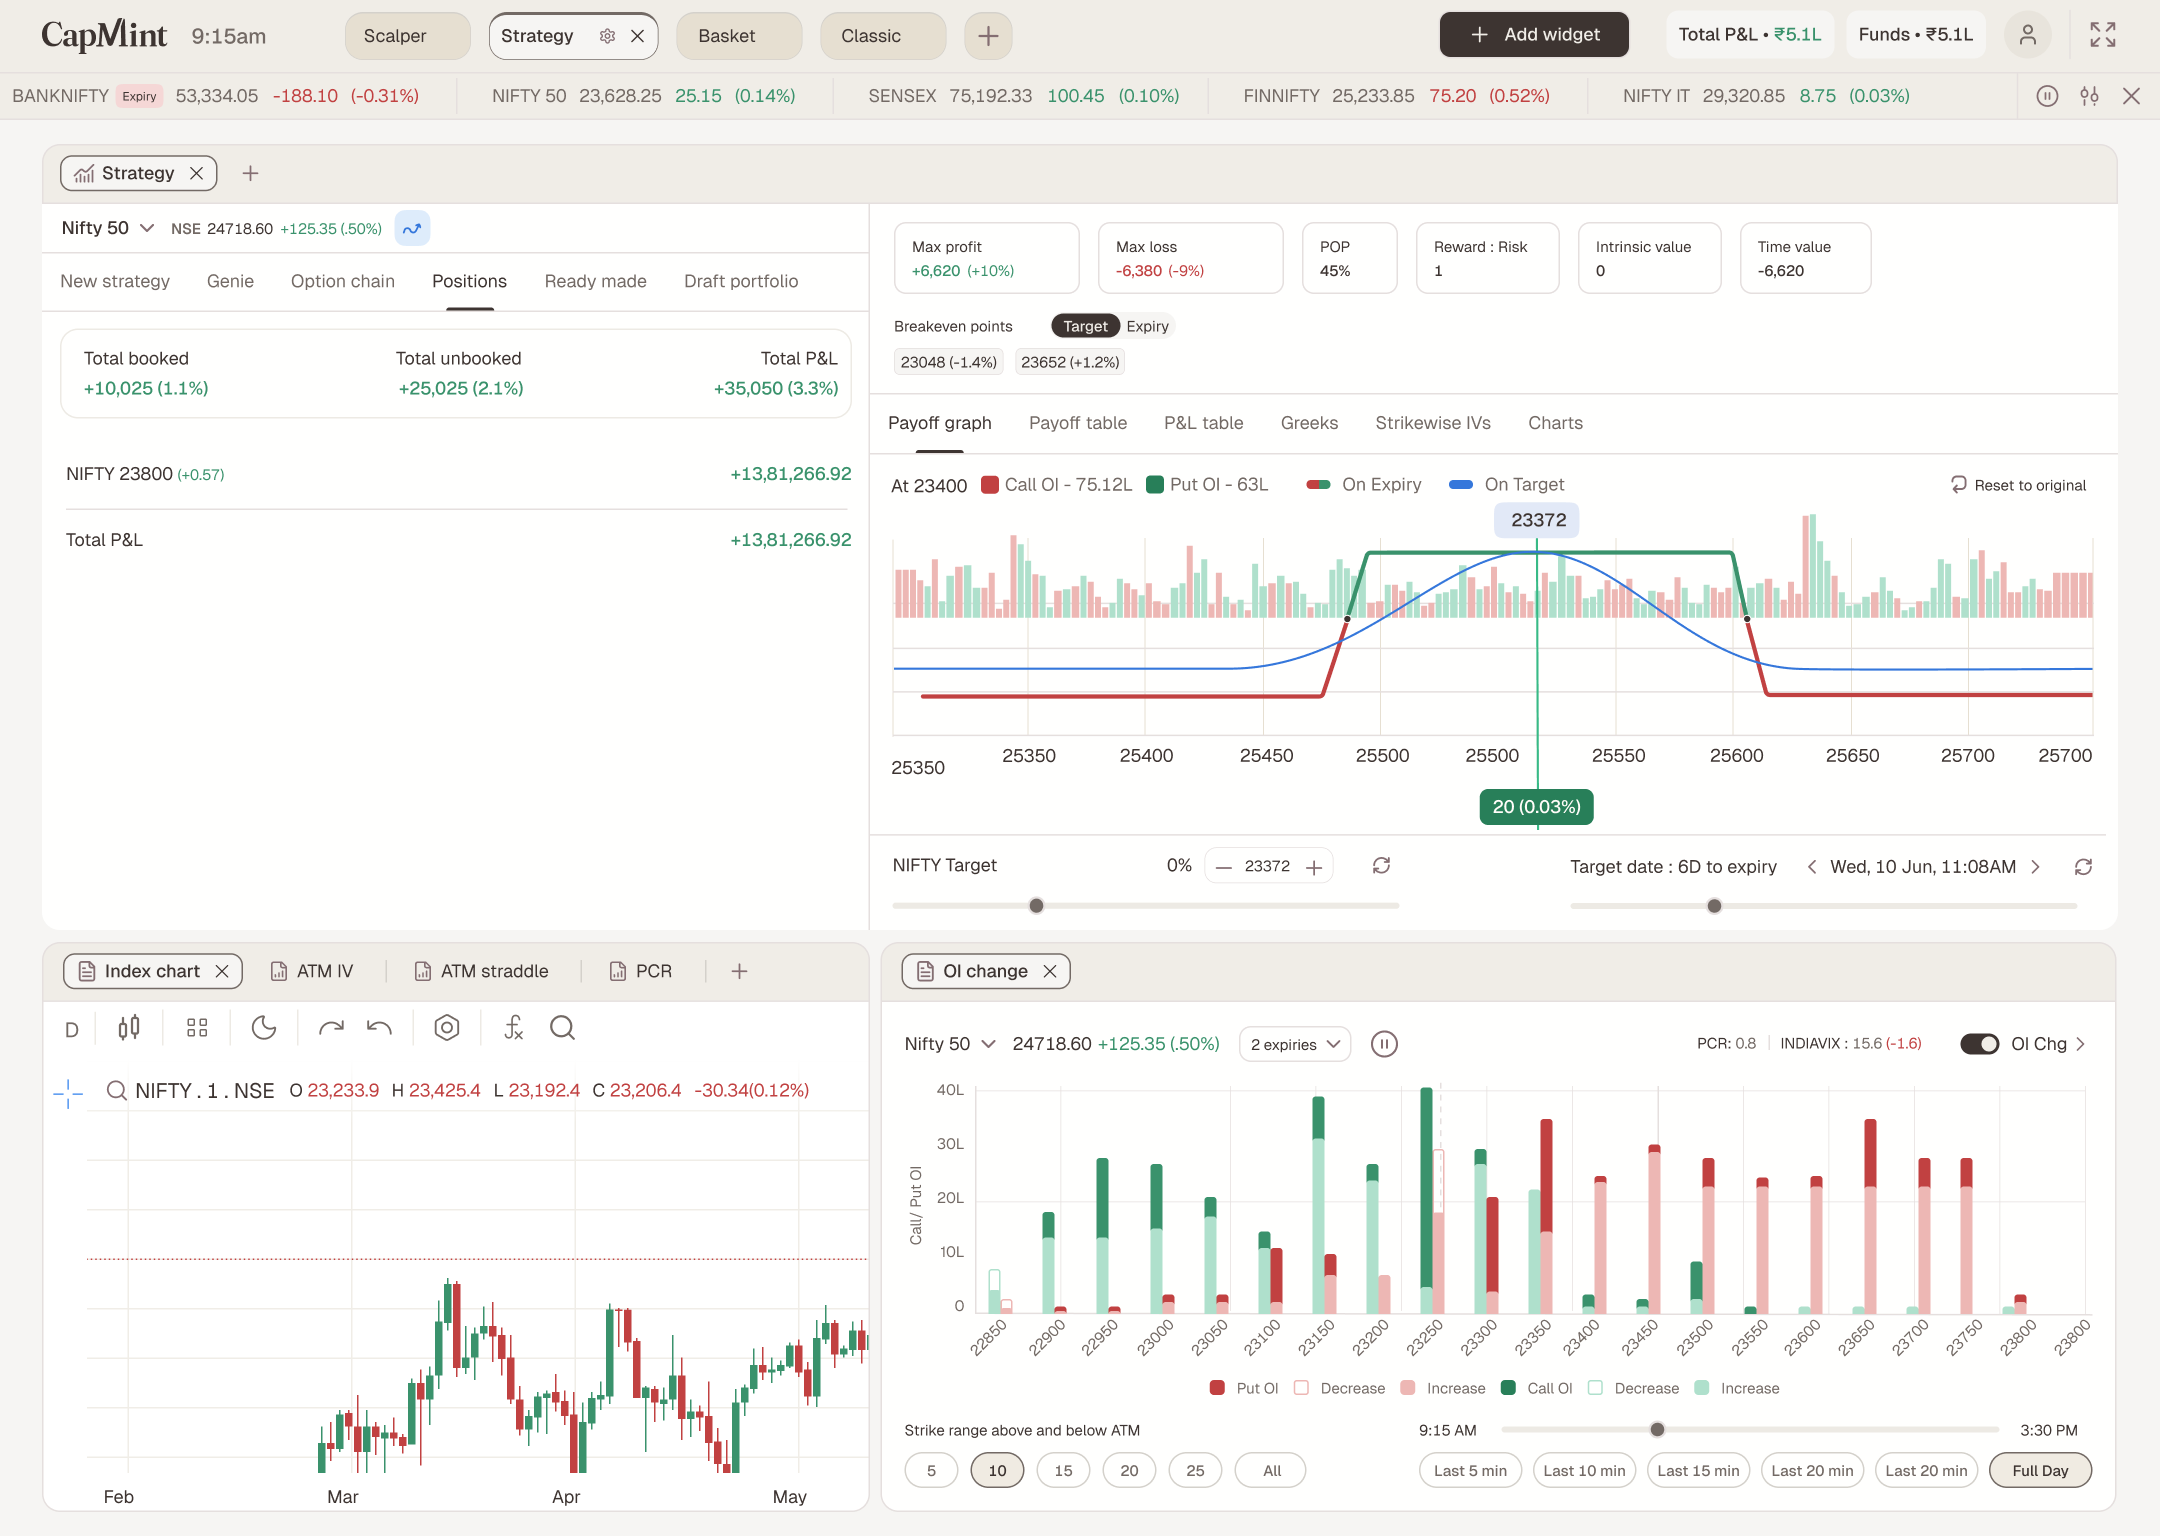
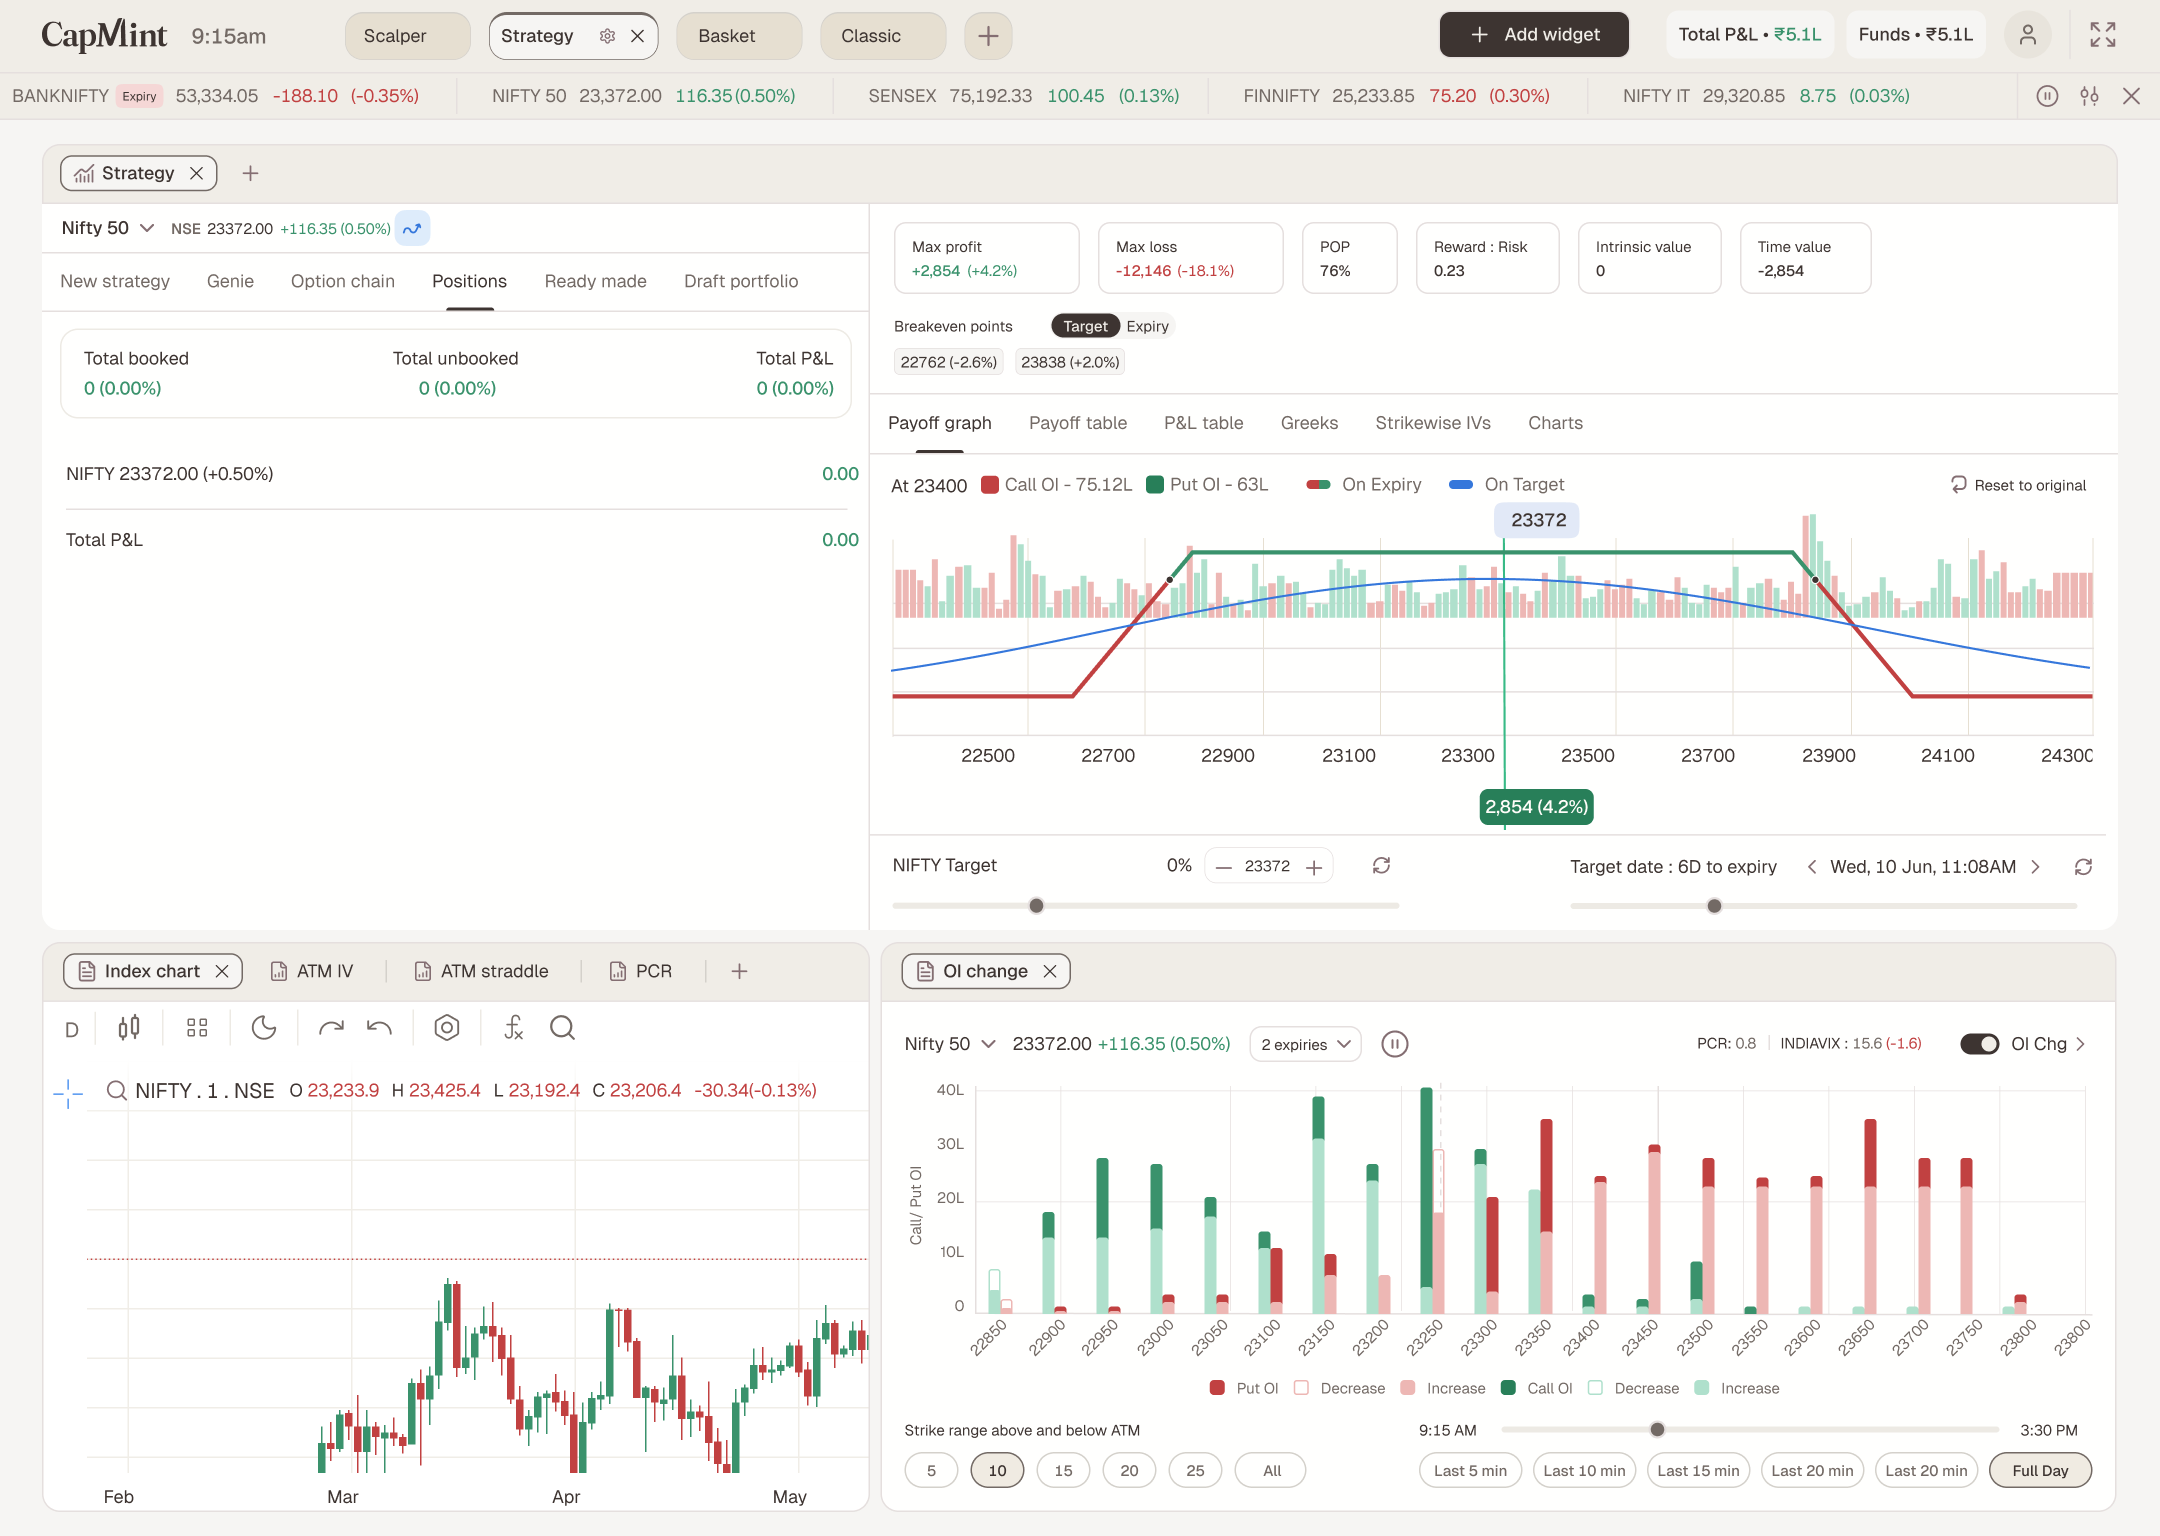
Strategy builder: screens re-exported with one consistent, mathematically correct set of numbers

diff --git a/projects/strategy-builder.html b/projects/strategy-builder.html
@@ -219,7 +219,7 @@
     <div class="wrap">
       <figure class="sb-shot">
         <div class="sb-shot__inner" style="--sb-ar: 696 / 495.031">
-          <img src="../assets/img/strategy-builder/screen-01.png" alt="The Strategy Builder workbench: build panel on the left, payoff and analytics pane on the right." width="3484" height="2478" loading="lazy" decoding="async">
+          <img src="../assets/img/strategy-builder/screen-01.png?v=3" alt="The Strategy Builder workbench: build panel on the left, payoff and analytics pane on the right." width="3484" height="2478" loading="lazy" decoding="async">
         </div>
       </figure>
     </div>
@@ -244,7 +244,7 @@
 
       <figure class="sb-shot">
         <div class="sb-shot__inner" style="--sb-ar: 696 / 495.031">
-          <img src="../assets/img/strategy-builder/screen-02.png" alt="The Strategy view with three widgets arranged on the modular canvas." width="3484" height="2478" loading="lazy" decoding="async">
+          <img src="../assets/img/strategy-builder/screen-02.png?v=3" alt="The Strategy view with three widgets arranged on the modular canvas." width="3484" height="2478" loading="lazy" decoding="async">
         </div>
       </figure>
     </div>
@@ -278,7 +278,7 @@
     <div class="wrap">
       <figure class="sb-shot">
         <div class="sb-shot__inner" style="--sb-ar: 696 / 299.656">
-          <img src="../assets/img/strategy-builder/screen-03.png" alt="The Analysis Charts widget showing its read-only context tabs." width="3484" height="1500" loading="lazy" decoding="async">
+          <img src="../assets/img/strategy-builder/screen-03.png?v=3" alt="The Analysis Charts widget showing its read-only context tabs." width="3484" height="1500" loading="lazy" decoding="async">
         </div>
       </figure>
     </div>
@@ -292,7 +292,7 @@
 
       <figure class="sb-shot">
         <div class="sb-shot__inner" style="--sb-ar: 696 / 299.6">
-          <img src="../assets/img/strategy-builder/screen-04.png?v=2" alt="The payoff and analytics pane with its metric strip, breakevens and payoff curves." width="3480" height="1498" loading="lazy" decoding="async">
+          <img src="../assets/img/strategy-builder/screen-04.png?v=3" alt="The payoff and analytics pane with its metric strip, breakevens and payoff curves." width="3480" height="1498" loading="lazy" decoding="async">
         </div>
       </figure>
     </div>
@@ -342,7 +342,7 @@
 
       <figure class="sb-shot">
         <div class="sb-shot__inner" style="--sb-ar: 696 / 519.6">
-          <img src="../assets/img/strategy-builder/screen-06.png?v=2" alt="Genie's solved result dropped into the build panel as real, editable legs." width="3480" height="2598" loading="lazy" decoding="async">
+          <img src="../assets/img/strategy-builder/screen-06.png?v=3" alt="Genie's solved result dropped into the build panel as real, editable legs." width="3480" height="2598" loading="lazy" decoding="async">
         </div>
       </figure>
 
@@ -470,20 +470,20 @@
       </div>
 
       <figure class="sb-shot">
-        <div class="sb-shot__inner" style="--sb-ar: 700 / 302.114">
-          <img src="../assets/img/strategy-builder/screen-07.png" alt="Sketch: hovering empty chart space snaps a plus to the nearest strike." width="3501" height="1511" loading="lazy" decoding="async">
+        <div class="sb-shot__inner" style="--sb-ar: 3501 / 1507">
+          <img src="../assets/img/strategy-builder/screen-07.png?v=3" alt="Sketch: hovering empty chart space snaps a plus to the nearest strike." width="3501" height="1507" loading="lazy" decoding="async">
         </div>
       </figure>
 
       <figure class="sb-shot">
         <div class="sb-shot__inner" style="--sb-ar: 700 / 301.319">
-          <img src="../assets/img/strategy-builder/screen-08.png" alt="Sketch: dragging a single dot rolls that leg to the next real strike." width="3487" height="1501" loading="lazy" decoding="async">
+          <img src="../assets/img/strategy-builder/screen-08.png?v=3" alt="Sketch: dragging a single dot rolls that leg to the next real strike." width="3487" height="1501" loading="lazy" decoding="async">
         </div>
       </figure>
 
       <figure class="sb-shot">
         <div class="sb-shot__inner" style="--sb-ar: 700 / 301.752">
-          <img src="../assets/img/strategy-builder/screen-09.png" alt="Sketch: dragging a whole side moves both end legs together with width held." width="3482" height="1501" loading="lazy" decoding="async">
+          <img src="../assets/img/strategy-builder/screen-09.png?v=3" alt="Sketch: dragging a whole side moves both end legs together with width held." width="3482" height="1501" loading="lazy" decoding="async">
         </div>
       </figure>
 
@@ -613,14 +613,14 @@
       <div class="sb-shots-2">
         <figure class="sb-fig"><div class="sb-shot sb-shot--contain">
           <div class="sb-shot__inner" style="--sb-ar: 5 / 4">
-            <img src="../assets/img/strategy-builder/execute-review.png" alt="Execute trade orders: four NIFTY legs with lots and exit prices, intraday or overnight, required and available margin, and Cancel or Execute all." width="1120" height="864" loading="lazy" decoding="async">
+            <img src="../assets/img/strategy-builder/execute-review.png?v=3" alt="Execute trade orders: four NIFTY legs with lots and exit prices, intraday or overnight, required and available margin, and Cancel or Execute all." width="1225" height="945" loading="lazy" decoding="async">
           </div>
           </div>
           <figcaption class="sb-cap">Review before anything is placed</figcaption>
         </figure>
         <figure class="sb-fig"><div class="sb-shot sb-shot--contain">
           <div class="sb-shot__inner" style="--sb-ar: 5 / 4">
-            <img src="../assets/img/strategy-builder/execute-track.png" alt="Strategy order status: each leg with its status, completed or partly completed, and Modify or Cancel on open orders." width="1060" height="880" loading="lazy" decoding="async">
+            <img src="../assets/img/strategy-builder/execute-track.png?v=3" alt="Strategy order status: each leg with its status, completed or partly completed, and Modify or Cancel on open orders." width="1166" height="968" loading="lazy" decoding="async">
           </div>
           </div>
           <figcaption class="sb-cap">Then every order, tracked</figcaption>
@@ -629,7 +629,7 @@
 
       <figure class="sb-fig"><div class="sb-shot">
         <div class="sb-shot__inner" style="--sb-ar: 2160 / 1536">
-          <img src="../assets/img/strategy-builder/execute-position.png" alt="The executed strategy loaded as a position, with total booked, unbooked and P&amp;L, and the payoff chart." width="2160" height="1536" loading="lazy" decoding="async">
+          <img src="../assets/img/strategy-builder/execute-position.png?v=3" alt="The executed strategy loaded as a position, with total booked, unbooked and P&amp;L, and the payoff chart." width="2160" height="1536" loading="lazy" decoding="async">
         </div>
           </div>
         <figcaption class="sb-cap">Landed as a position, ready for Adjust</figcaption>
@@ -648,7 +648,7 @@
         <li class="sb-card">
           <span class="sb-tag">01</span>
           <h3 class="sb-card__title">Price outside the circuit</h3>
-          <p class="sb-card__body">“Limit price outside circuit limit (397.05 – 485.25).” The trade list shows the allowed range, and Review stays off until the price is fixed.</p>
+          <p class="sb-card__body">“Limit price outside circuit limit (0.05 – 61.40).” The trade list shows the allowed range, and Review stays off until the price is fixed.</p>
         </li>
         <li class="sb-card">
           <span class="sb-tag">02</span>
@@ -679,7 +679,7 @@
 
       <figure class="sb-fig"><div class="sb-shot">
         <div class="sb-shot__inner" style="--sb-ar: 2160 / 1536">
-          <img src="../assets/img/strategy-builder/edge-limit.png" alt="The builder with a red note under the trade list: limit price outside circuit limit, 397.05 to 485.25, and Review strategy turned off." width="2160" height="1536" loading="lazy" decoding="async">
+          <img src="../assets/img/strategy-builder/edge-limit.png?v=3" alt="The builder with a red note under the trade list: limit price outside circuit limit, 0.05 to 61.40, and Review strategy turned off." width="2160" height="1536" loading="lazy" decoding="async">
         </div>
           </div>
         <figcaption class="sb-cap">A limit price outside the circuit, flagged in the trade list</figcaption>
